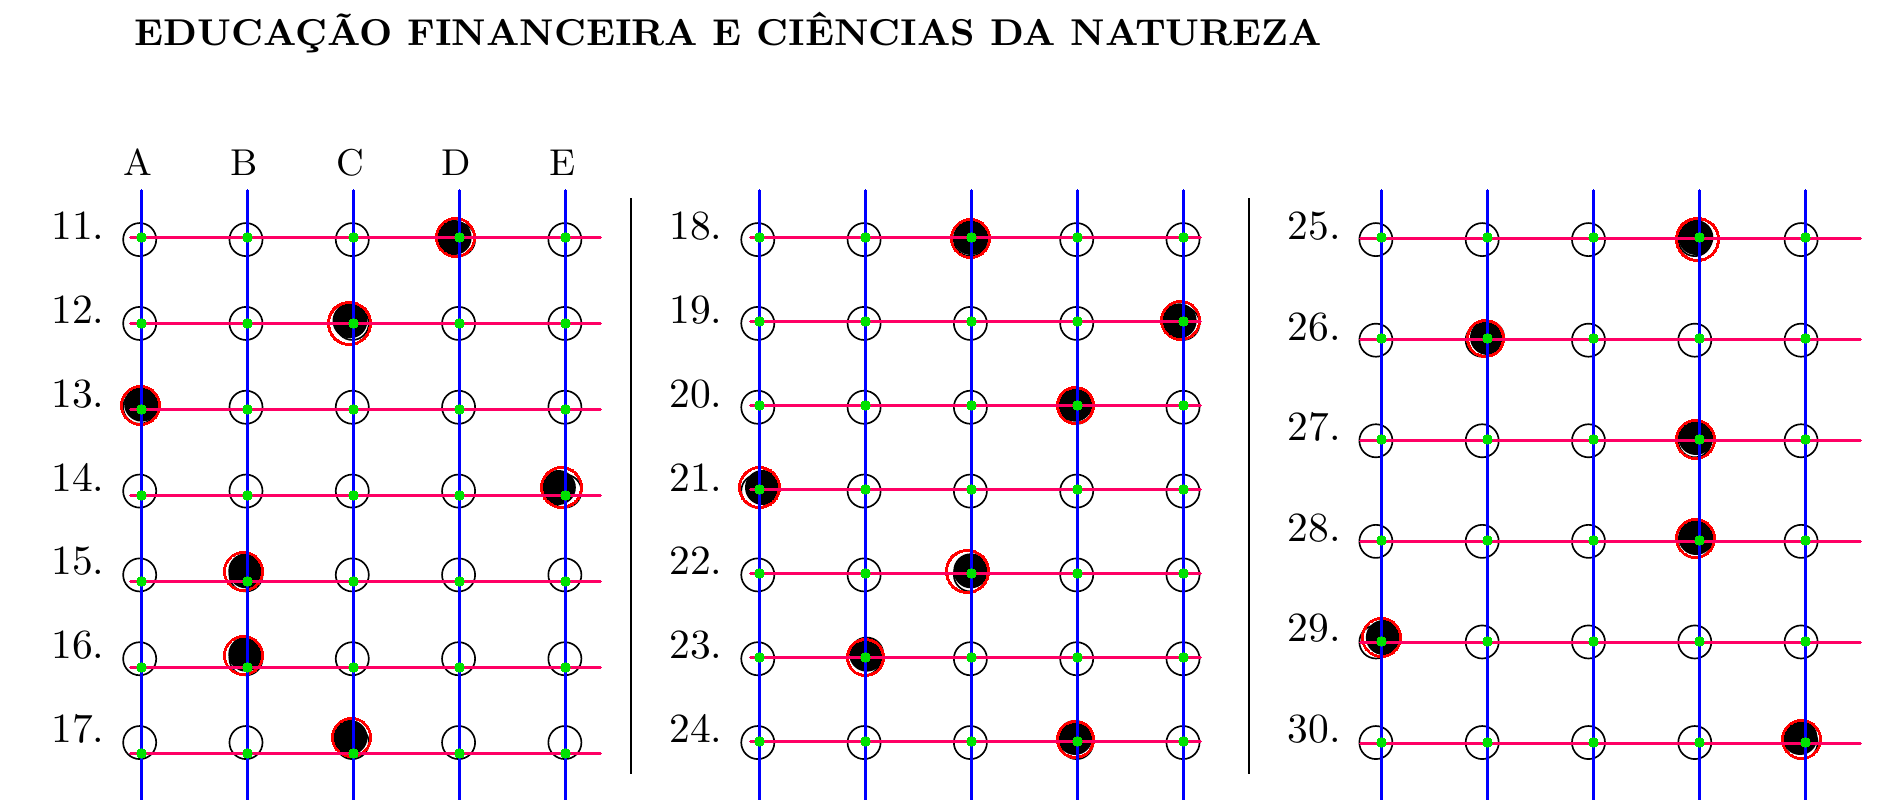
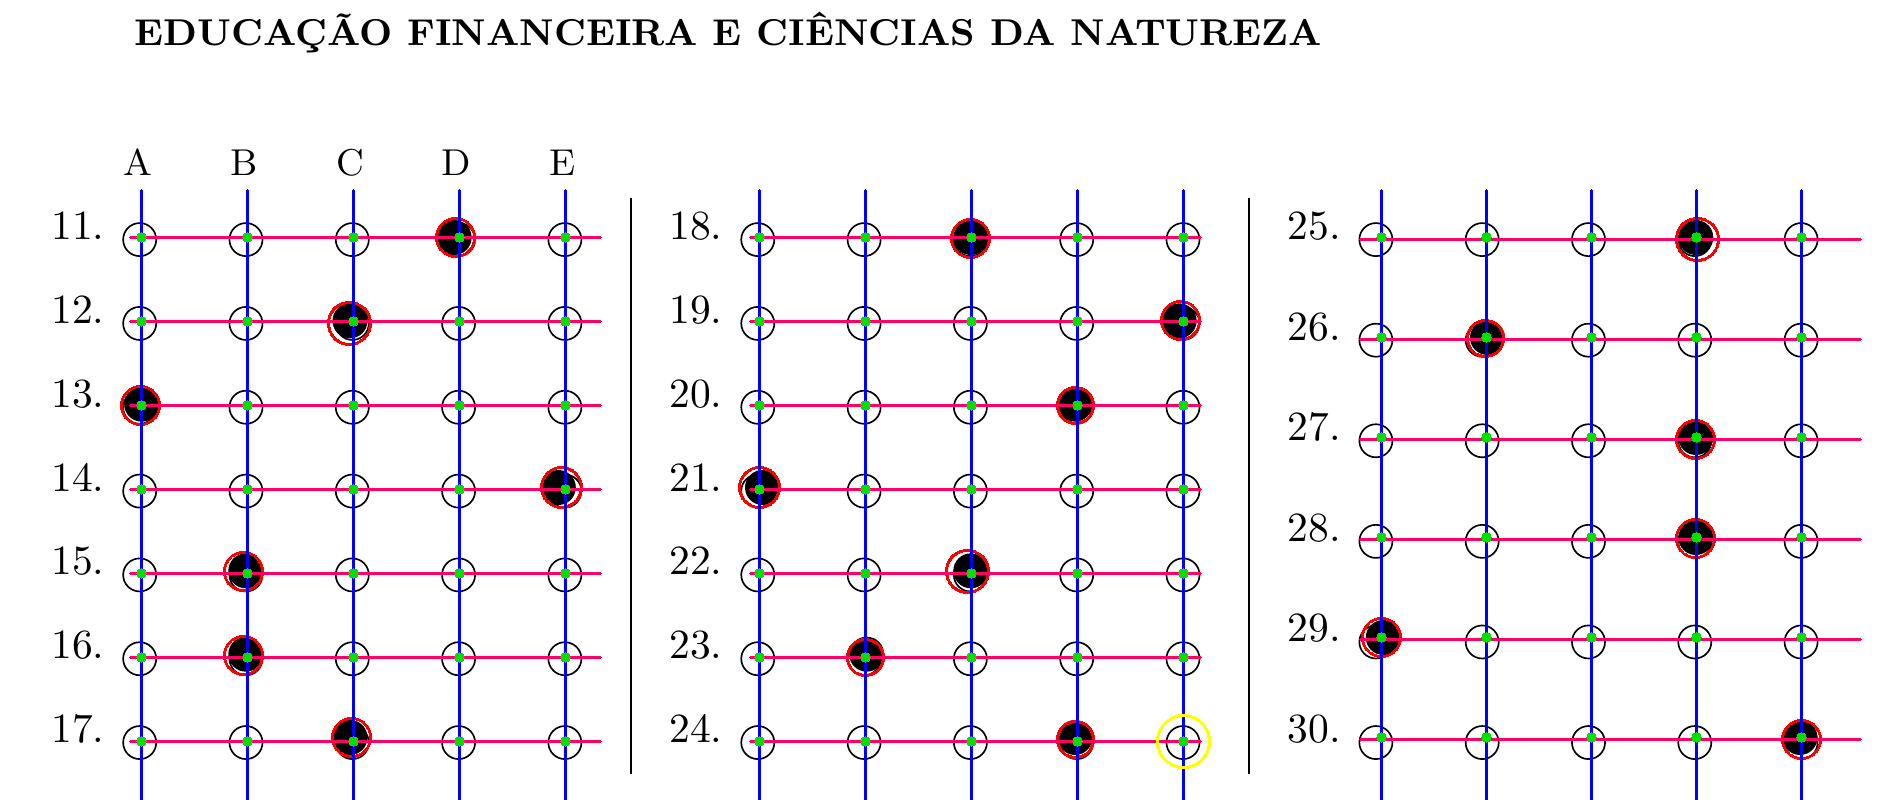
Working on organize matrix to get answers for each question

diff --git a/AI/gabarito_answered/readpngcnt.py b/AI/gabarito_answered/readpngcnt.py
@@ -78,7 +78,7 @@ if current_row:
     rows.append(sorted(current_row, key=lambda c: c[0]))
 
 
-
+points = []
 # ----------------------------
 # 4. Avaliar preenchimento
 # ----------------------------
@@ -92,6 +92,7 @@ for row in rows:
         continue
 
     scores = []
+
     for i, (x, y, r) in enumerate(row):
         mask = np.zeros_like(thresh)
         cv2.circle(mask, (x, y), r-2, 255, -1)
@@ -99,6 +100,7 @@ for row in rows:
         filled = cv2.countNonZero(cv2.bitwise_and(thresh, thresh, mask=mask))
         ratio = filled / float(total)
         scores.append((ratio, i))
+
     
     best_ratio, best_idx = max(scores, key=lambda t: t[0])
     chosen = OPTIONS[best_idx] if best_ratio >= FILL_THRESHOLD else '-'
@@ -110,12 +112,16 @@ for row in rows:
     })
 
     # Desenho na imagem
+    index = 0
+    
     for (ratio, i) in scores:
         x, y, r = row[i]
         if ratio > 0.8:
-            print(x, y, ratio)
+            print(f"#{index} - Círculo {x}, {y} preenchido! ({ratio})")
             color = (0, 0, 255)
             cv2.circle(img_color, (x, y), r, color, 2)
+            points.append((int(x), int(y)))
+            index +=1
 
     ##############################################
     ## Block - 1
@@ -142,7 +148,7 @@ for row in rows:
         thickness   = 2            # Line thickness in pixels
 
         cv2.line(img_color, start_point, end_point, color, thickness)
-        y_alt = y_alt + 86
+        y_alt = y_alt + 84
 
     ##################################################################
 
@@ -150,7 +156,7 @@ for row in rows:
     ## Block - 2
     x_alt = 759
     for icon in ['A', 'B', 'C', 'D', 'E']:
-        # block 1 : Alternative: A, B, C, D, E
+        # block 2 : Alternative: A, B, C, D, E
         # Draw a white line from point (x1, y1) to (x2, y2)
         start_point = (x_alt, 190)      # Starting coordinate
         end_point   = (x_alt, 800)    # Ending coordinate
@@ -162,7 +168,7 @@ for row in rows:
 
     y_alt = 237
     for q in range(11,18):
-        # block 1 : Alternative: A, B, C, D, E
+        # block 2 : Alternative: A, B, C, D, E
         # Draw a white line from point (x1, y1) to (x2, y2)
         start_point = (750, y_alt)      # Starting coordinate
         end_point   = (1200, y_alt)    # Ending coordinate
@@ -178,7 +184,7 @@ for row in rows:
     ## Block - 3
     x_alt = 1381
     for icon in ['A', 'B', 'C', 'D', 'E']:
-        # block 1 : Alternative: A, B, C, D, E
+        # block 3 : Alternative: A, B, C, D, E
         # Draw a white line from point (x1, y1) to (x2, y2)
         start_point = (x_alt, 190)      # Starting coordinate
         end_point   = (x_alt, 800)    # Ending coordinate
@@ -186,11 +192,11 @@ for row in rows:
         thickness   = 2            # Line thickness in pixels
 
         cv2.line(img_color, start_point, end_point, color, thickness)
-        x_alt = x_alt + 106
+        x_alt = x_alt + 105
 
-    y_alt = 238
+    y_alt = 239
     for q in range(11,18):
-        # block 1 : Alternative: A, B, C, D, E
+        # block 3 : Alternative: A, B, C, D, E
         # Draw a white line from point (x1, y1) to (x2, y2)
         start_point = (1360, y_alt)      # Starting coordinate
         end_point   = (1860, y_alt)    # Ending coordinate
@@ -198,7 +204,7 @@ for row in rows:
         thickness   = 2            # Line thickness in pixels
 
         cv2.line(img_color, start_point, end_point, color, thickness)
-        y_alt = y_alt + 101
+        y_alt = y_alt + 100
 
     ##################################################################
 
@@ -214,10 +220,10 @@ for row in rows:
         for x in range(cols):
             matrix1[y, x] = (xcoor, ycoor)
             xcoor = xcoor + 106
-        ycoor = ycoor + 86
+        ycoor = ycoor + 84
         xcoor = 141
     
-    ic(matrix1)
+    #ic(matrix1)
 
     # block 2
     matrix2 = np.empty((rows, cols), dtype=object)
@@ -231,7 +237,7 @@ for row in rows:
         ycoor = ycoor + 84
         xcoor = 759
     
-    ic(matrix2)
+    #ic(matrix2)
 
     # block 3
     matrix3 = np.empty((rows, cols), dtype=object)
@@ -241,11 +247,11 @@ for row in rows:
     for y in range(rows):
         for x in range(cols):
             matrix3[y, x] = (xcoor, ycoor)
-            xcoor = xcoor + 106
-        ycoor = ycoor + 101
+            xcoor = xcoor + 105
+        ycoor = ycoor + 100
         xcoor = 1381
     
-    ic(matrix3)
+    #ic(matrix3)
 
     # Cor e raio dos pontos
     color = (0, 225, 0)   # vermelho em BGR
@@ -256,11 +262,6 @@ for row in rows:
     for row in matrix1:
         for (x, y) in row:             # cada elemento é uma tupla (x, y)
             cv2.circle(img_color, (x, y), radius, color, thickness)
-
-    # Cor e raio dos pontos
-    color = (0, 225, 0)   # vermelho em BGR
-    radius = 5
-    thickness = -1        # -1 = círculo preenchido
 
     # Percorrer linhas e colunas
     for row in matrix2:
@@ -277,18 +278,24 @@ for row in rows:
         #cv2.waitKey(0)
         #cv2.destroyAllWindows()
 
-        #if x == 139 and y == 489:
-        #    color = (0, 255, 255)
-        #    cv2.circle(img_color, (x, y), r, color, 2)
+    
+    color = (0, 255, 255)
+    cv2.circle(img_color, (1183, 741), 26, color, 2)
 
-        #color = (0, 0, 255) if ratio >= FILL_THRESHOLD else (0, 0, 0)
-        #cv2.circle(img_color, (x, y), r, color, 2)
+    #color = (0, 0, 255) if ratio >= FILL_THRESHOLD else (0, 0, 0)
+    #cv2.circle(img_color, (x, y), r, color, 2)
+
     #if chosen != '-':
     #    x, y, r = row[OPTIONS.index(chosen)]
     #    cv2.putText(img_color, chosen, (x - 10, y + 5),
     #                cv2.FONT_HERSHEY_SIMPLEX, 0.5, (0, 0, 255), 1)
 
     q_num += 1
+
+ic(matrix1)
+ic(matrix2)
+ic(matrix3)
+ic(points)
 
 # ----------------------------
 # 5. Salvar resultados
